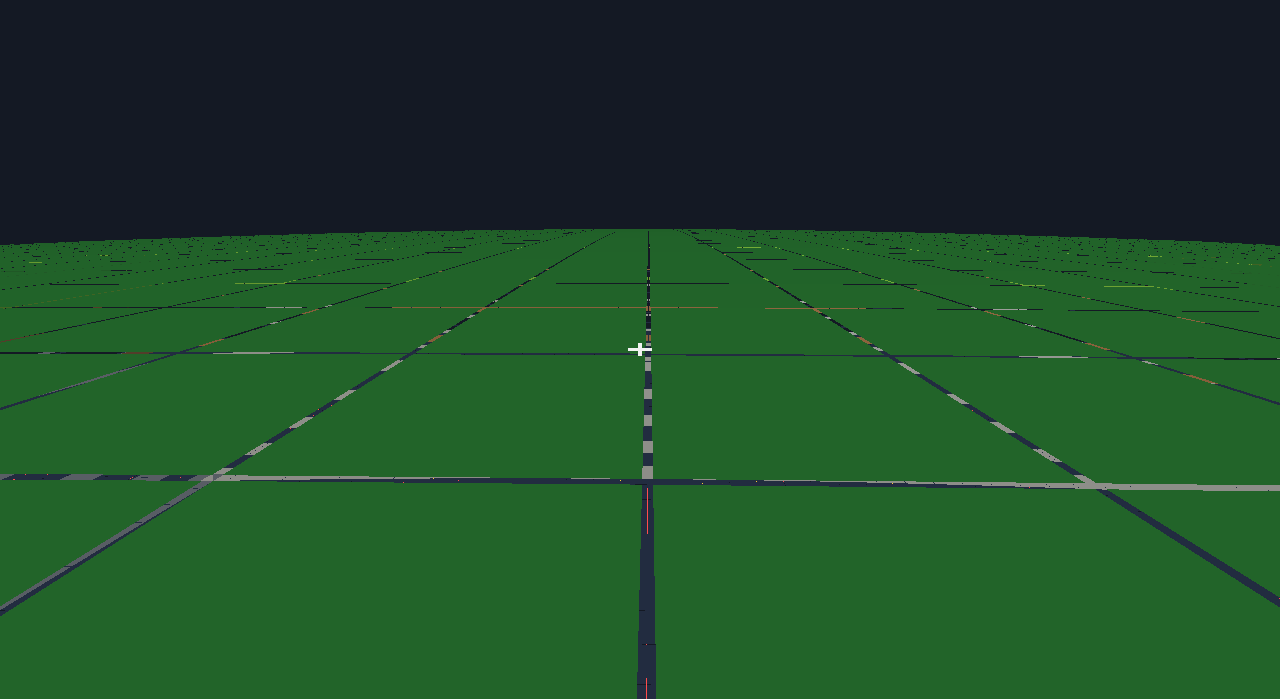
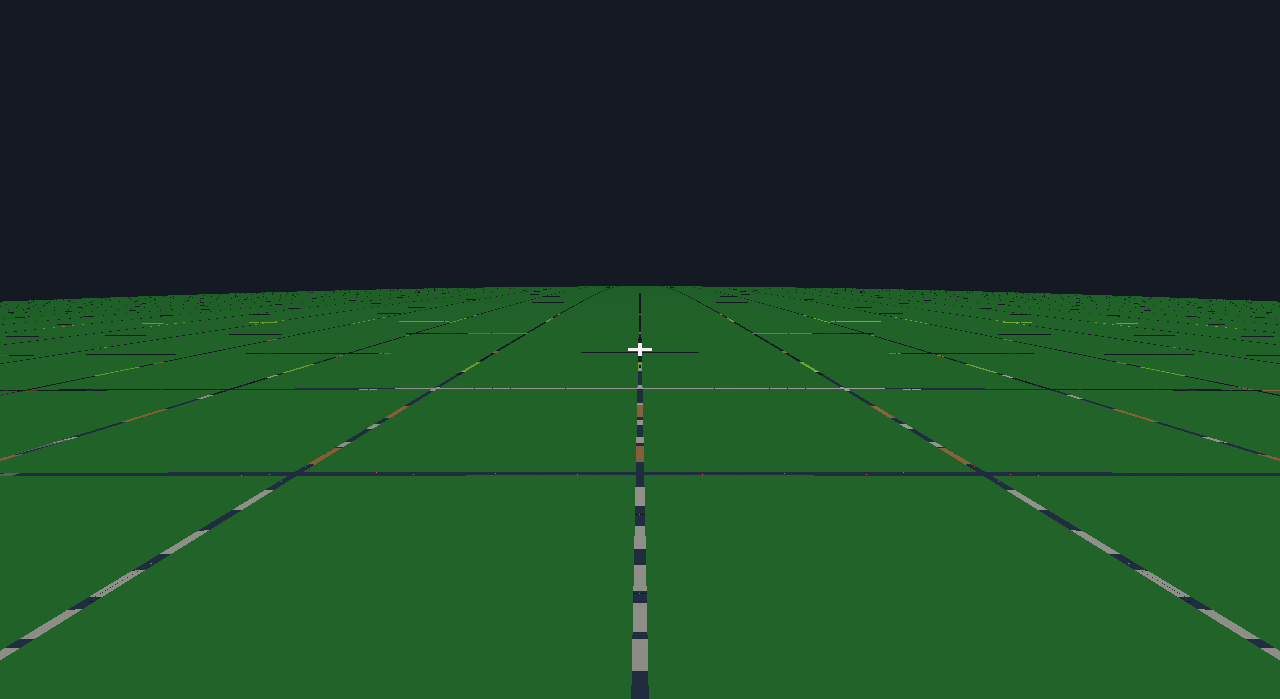
feat(debug): visual debugging system with Mimo Omni integration
Enhanced HUD (F2 devhud):
- Player position, sector/shell/chunk address
- Camera pitch/yaw, local up vector, terrain height
- Grounded state, velocity, locomotion state name
- Block targeting: target block coords, face normal

Screenshot system:
- Auto-screenshot at frame 120 (~2s) after game start
- F5: quick debug screenshot (overwrites for easy Mimo analysis)
- F12: timestamped screenshot (keeps history)

Debug script:
- debug_analyze.sh: runs game, takes screenshot, analyzes with Mimo Omni
- Usage: ./debug_analyze.sh [prompt]
- Default prompt covers camera, terrain, bugs, crosshair, HUD

Controls recap:
- WASD: walk, Mouse: look, Space: jump
- Left click: break block, Right click: place block
- F2: debug HUD, F4: fly mode, F5: quick screenshot, F12: timestamped screenshot

diff --git a/src/game/main_sokol.cpp b/src/game/main_sokol.cpp
@@ -117,23 +117,38 @@ void voxov_frame() {
 
     g_runtime->tick(g_pacer->frame_dt());
 
-    // Auto-screenshot after 120 frames (~2s) for debugging.
-    // WHY: external screenshot tools fail on this Wayland compositor.
-    // TODO: remove once voxel rendering is confirmed working.
+    // ── Debug screenshot system ──────────────────────────────────────
+    // Auto-screenshot at key moments for visual debugging with Mimo Omni.
+    // Also supports F5 for quick debug screenshot and F12 for timestamped.
     static int frame_counter = 0;
     frame_counter++;
-    if (frame_counter == 120) {
+
+    auto take_screenshot = [](const char *path) {
         std::system("mkdir -p screenshots 2>/dev/null");
         const int w = sapp_width();
         const int h = sapp_height();
-        if (g_runtime->capture_screenshot("screenshots/voxov_debug.png", w, h)) {
-            spdlog::info("Auto-screenshot saved: screenshots/voxov_debug.png");
-        } else {
-            spdlog::warn("Auto-screenshot failed");
+        if (g_runtime->capture_screenshot(path, w, h)) {
+            spdlog::info("Screenshot saved: {}", path);
         }
+    };
+
+    // Auto-screenshot after 120 frames (~2s) — terrain should be loaded.
+    if (frame_counter == 120) {
+        take_screenshot("screenshots/voxov_debug.png");
     }
 
-    // F12 screenshot capture
+    // F5: quick debug screenshot (overwrites same file for easy Mimo analysis).
+    static bool f5_was_down = false;
+    if (g_platform) {
+        const bool f5_down = g_platform->input().keys_down.test(
+            static_cast<size_t>(PlatformKey::F5));
+        if (f5_down && !f5_was_down) {
+            take_screenshot("screenshots/voxov_debug.png");
+        }
+        f5_was_down = f5_down;
+    }
+
+    // F12 screenshot capture (timestamped, keeps history).
     static bool f12_was_down = false;
     if (g_platform) {
         const bool f12_down = g_platform->input().keys_down.test(

diff --git a/src/engine/engine.cpp b/src/engine/engine.cpp
@@ -991,6 +991,26 @@ void Engine::refresh_overlay_text() {
   overlay_text += "\nTerrain h: " + std::to_string(
       block_world_.terrain_height_at(glm::dvec3(local_up)));
 
+  // Gameplay state debug info.
+  overlay_text += "\nGrounded: " + std::string(local_player.controller.grounded ? "YES" : "NO");
+  overlay_text += "\nVel: " + std::to_string(static_cast<int>(
+      glm::length(local_player.controller.velocity)));
+  overlay_text += "\nLocomotion: " + std::string(
+      player_locomotion_state_name(local_player.locomotion.state));
+
+  // Block targeting debug info.
+  if (targeted_addr_.has_value()) {
+    const BlockAddress &ta = *targeted_addr_;
+    overlay_text += "\nTarget block: (" + std::to_string(ta.block.x) + "," +
+        std::to_string(ta.block.y) + "," + std::to_string(ta.block.z) + ")";
+    overlay_text += "\nFace normal: (" +
+        std::to_string(static_cast<int>(targeted_face_normal_.x)) + "," +
+        std::to_string(static_cast<int>(targeted_face_normal_.y)) + "," +
+        std::to_string(static_cast<int>(targeted_face_normal_.z)) + ")";
+  } else {
+    overlay_text += "\nTarget: NONE";
+  }
+
   if (!last_hud_message_.empty()) {
     overlay_text += "\n" + last_hud_message_;
   }
